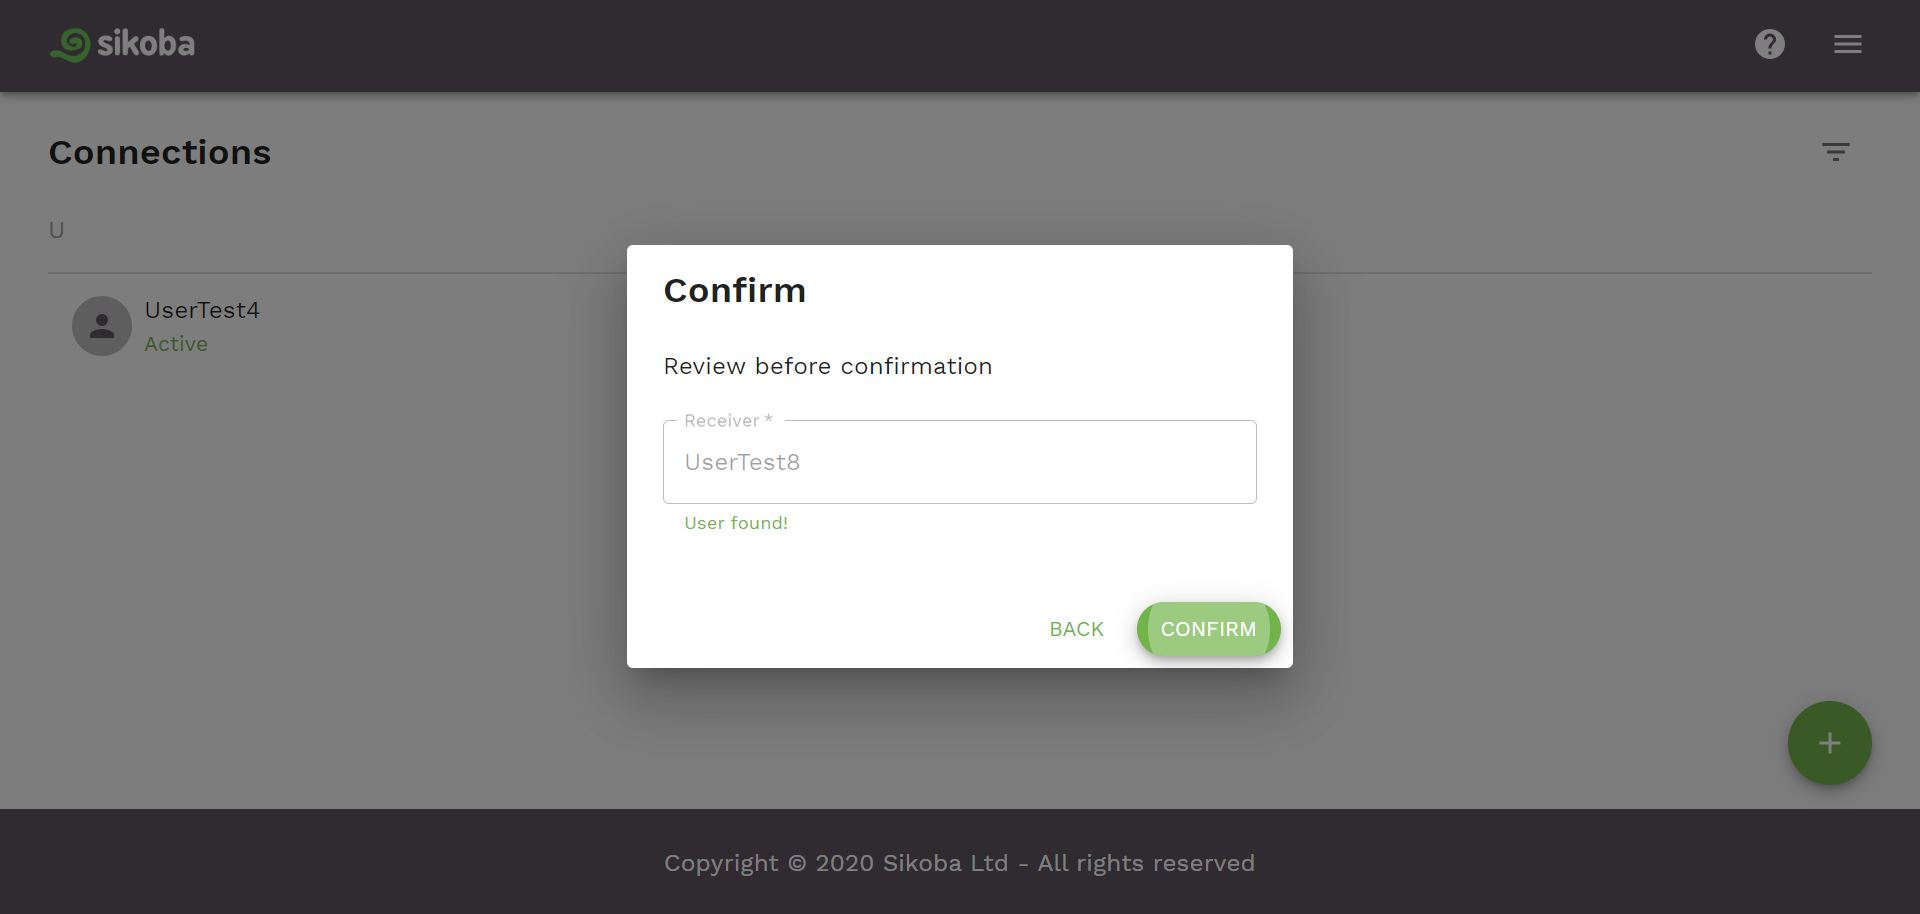
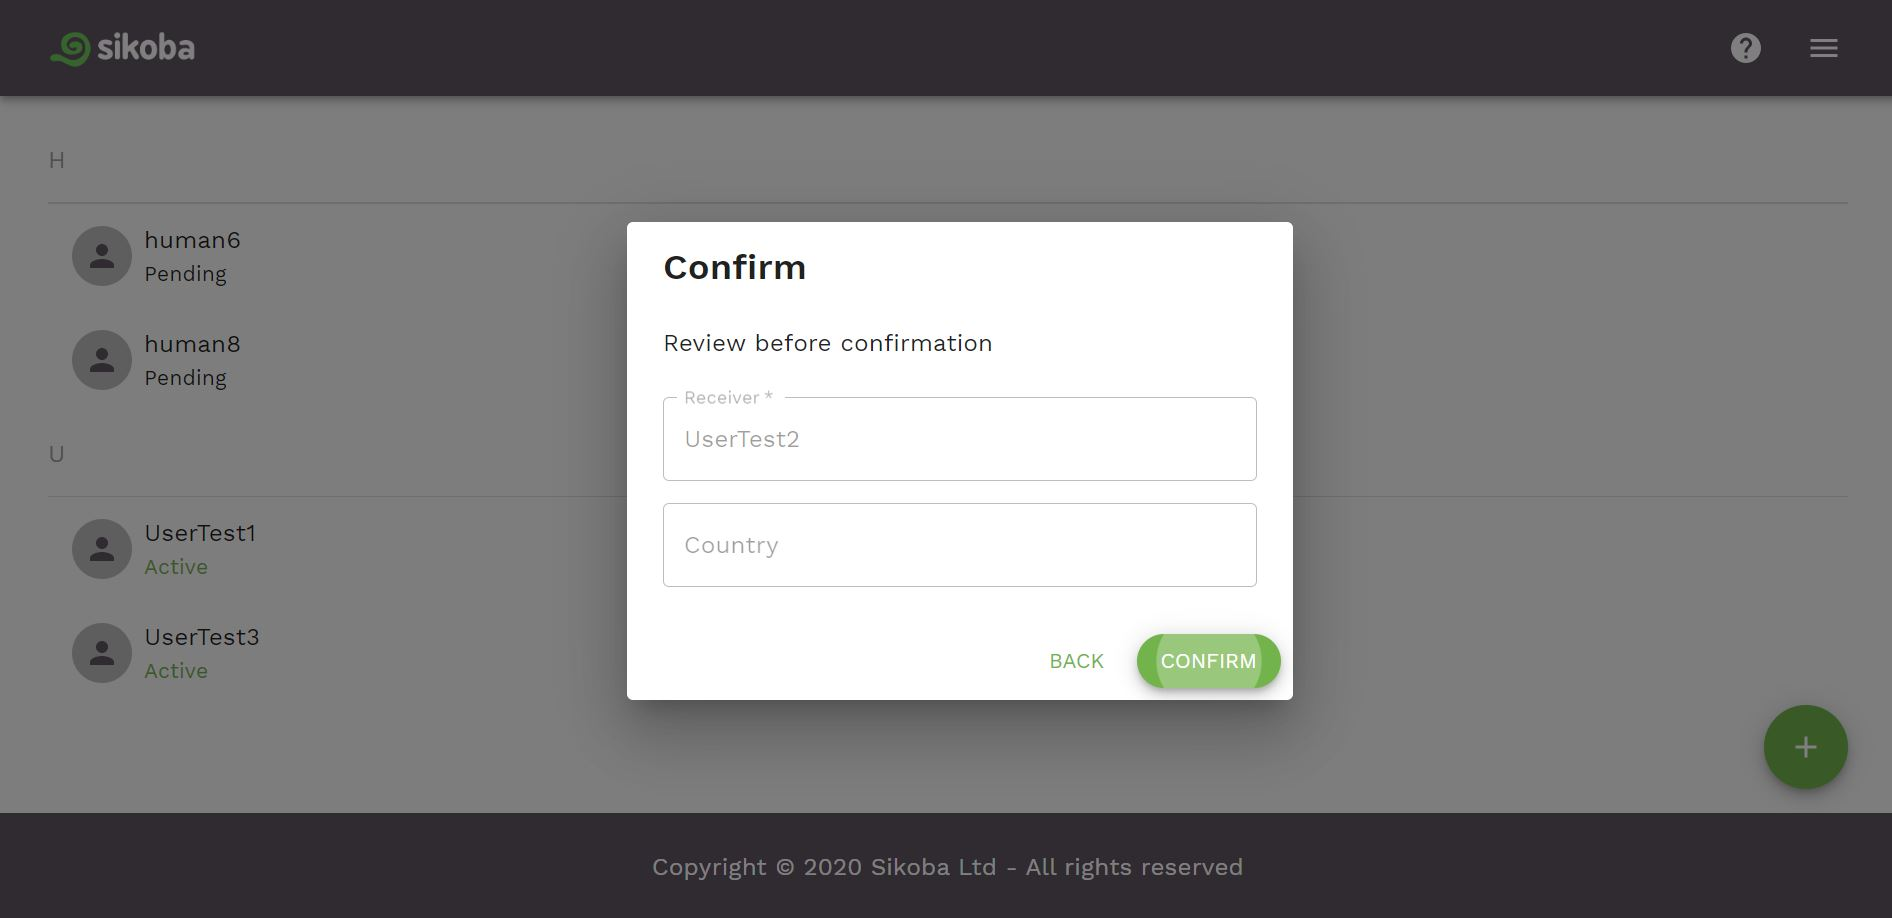
Add new connection web updated

diff --git a/docusaurus/docs/web/add-new-connection.md b/docusaurus/docs/web/add-new-connection.md
@@ -9,7 +9,10 @@ To add a new connection:
 
 <img src="../assets/web/add-connection1.png" alt="add connection image" />
 
-- Enter the username of the user you want to connect to and click *Next* button
+- Then you can then either:
+
+  - Enter the username of the user you want to connect to
+  - And/Or find users by country
 
 <img src="../assets/web/add-connection2.JPG" alt="add connection image" />
 
